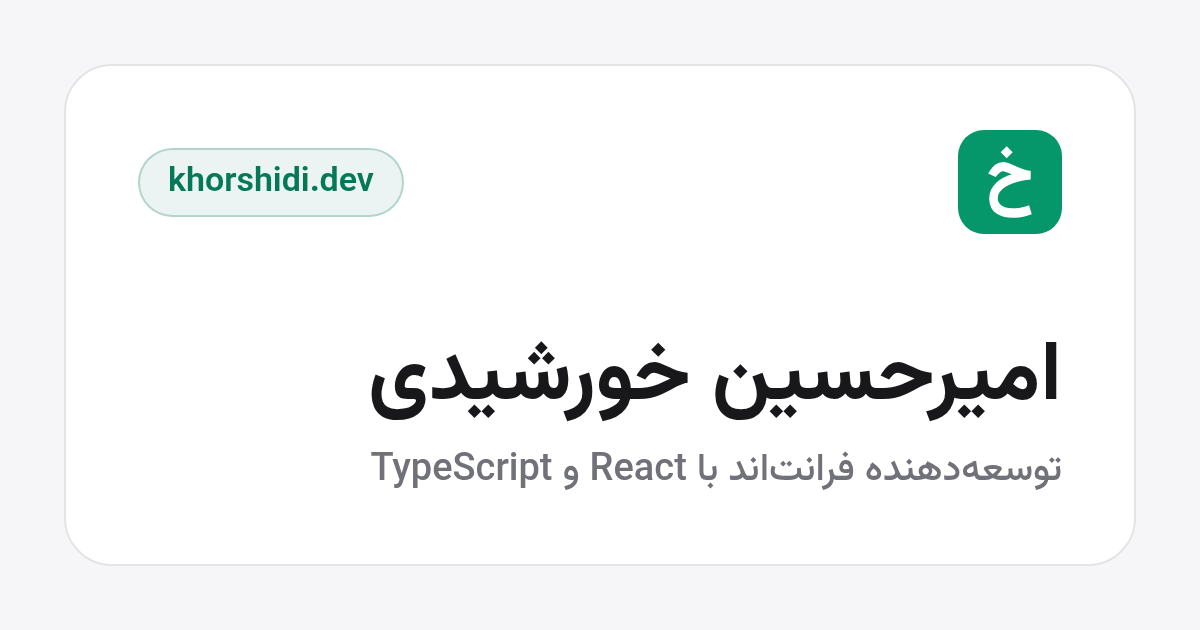
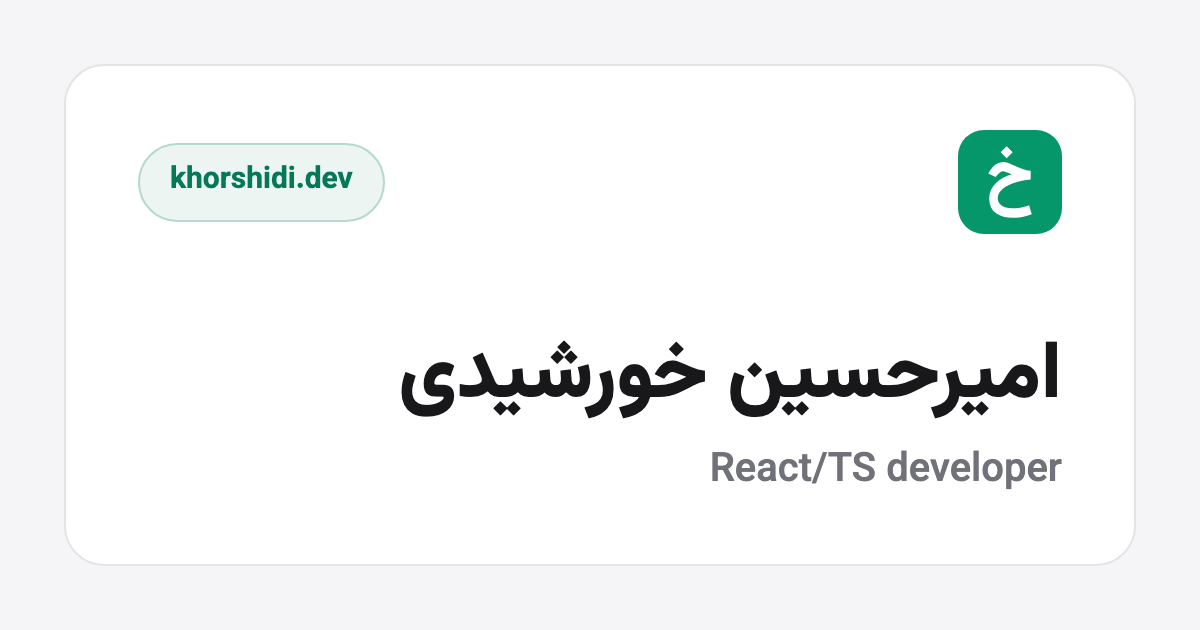
feat(profile): link tools in bio and add version footer

diff --git a/src/lib/site.ts b/src/lib/site.ts
@@ -49,6 +49,26 @@ const projects: readonly Project[] = [
   },
 ];
 
+/** A run of bio text, or a word in it that links out, such as a tool to its own site. */
+export type BioPart = string | { text: string; href: string };
+
+const tools = {
+  typescript: { text: 'TypeScript', href: 'https://www.typescriptlang.org' },
+  react: { text: 'React', href: 'https://react.dev' },
+  next: { text: 'Next.js', href: 'https://nextjs.org' },
+  vite: { text: 'Vite', href: 'https://vite.dev' },
+  shadcn: { text: 'shadcn/ui', href: 'https://ui.shadcn.com' },
+  tailwind: { text: 'Tailwind', href: 'https://tailwindcss.com' },
+} as const;
+
+const networks = {
+  ethereum: { text: 'اتریوم', href: 'https://ethereum.org' },
+  polygon: { text: 'Polygon', href: 'https://polygon.technology' },
+  arbitrum: { text: 'Arbitrum', href: 'https://arbitrum.io' },
+  optimism: { text: 'Optimism', href: 'https://optimism.io' },
+  bsc: { text: 'BSC', href: 'https://www.bnbchain.org' },
+} as const;
+
 /** Site-wide content in one place, so pages never hard-code the owner's details. */
 export const site = {
   /** The live origin, for canonical links, the sitemap and structured data. */
@@ -58,14 +78,41 @@ export const site = {
   latinName: 'Amirhossein Khorshidi',
   title: 'امیرحسین خورشیدی | درباره من و پروژههام',
   description:
-    'امیرحسین خورشیدی، توسعهدهنده فرانتاند با React و TypeScript. اینجا از خودم و پروژههام مینویسم.',
+    'امیرحسین خورشیدی، توسعهدهنده TypeScript. با React کار میکنم و پروژههام رو با Next.js و Vite میسازم. اینجا از خودم و کارهام مینویسم.',
   githubUsername: 'amirhosseinkhorshidi',
   role: 'توسعهدهنده فرانتاند',
+  /** One entry per paragraph; a paragraph with links is written as its parts. */
   bio: [
     'سلام، من امیرحسینم. بیشتر وقتم رو میذارم روی ساختن رابطهایی که ساده و روون باشن و کار کردن باهاشون حس خوبی بده. جزئیات کوچیک برام خیلی مهمن، چون به نظرم همین چیزای ریزن که آخرش یه تجربه خوب میسازن.',
-    'با React و TypeScript کار میکنم و پروژههام رو بیشتر با Next.js و Vite میسازم. به دیزاین سیستم و دسترسپذیری علاقه دارم و از کار با ابزارایی مثل shadcn/ui و Tailwind خیلی لذت میبرم، چون باهاشون میشه بیدردسر رابطهایی ساخت که هم خوشظاهرن، هم راحت شخصیسازی میشن.',
+    [
+      'توسعهدهنده ',
+      tools.typescript,
+      ' هستم و با ',
+      tools.react,
+      ' کار میکنم. پروژههام رو هم با ',
+      tools.next,
+      ' و ',
+      tools.vite,
+      ' میسازم. به دیزاین سیستم و دسترسپذیری علاقه دارم و از کار با ابزارایی مثل ',
+      tools.shadcn,
+      ' و ',
+      tools.tailwind,
+      ' خیلی لذت میبرم، چون باهاشون میشه بیدردسر رابطهایی ساخت که هم ظاهر تمیز و مرتبی دارن، هم راحت شخصیسازی میشن.',
+    ],
     'کنار اینا به بلاکچین هم علاقه دارم. به نظرم یه قدم بزرگه برای رها شدن از سیستمهای مالی سنتی و پول فیات، جایی که آدمها بدون واسطه خودشون مالک داراییشون باشن و هیچ سیستمی دست یه نفر یا یه سازمان خاص نباشه.',
-    'بیشتر از همه اکوسیستم اتریوم و راهحلهای مقیاسپذیریش برام جذابه، مثل Polygon، Arbitrum و Optimism که هر کدوم یه جور سعی میکنن مشکل سرعت و کارمزد اتریوم رو حل کنن. BSC هم برام جالبه و کلا دوست دارم شبکههای مختلف رو بیشتر بشناسم و بفهمم پشتشون چی میگذره.',
+    [
+      'بیشتر از همه اکوسیستم ',
+      networks.ethereum,
+      ' و راهحلهای مقیاسپذیریش برام جذابه، مثل ',
+      networks.polygon,
+      '، ',
+      networks.arbitrum,
+      ' و ',
+      networks.optimism,
+      ' که هر کدوم یه جور سعی میکنن مشکل سرعت و کارمزد اتریوم رو حل کنن. ',
+      networks.bsc,
+      ' هم برام جالبه و کلا دوست دارم شبکههای مختلف رو بیشتر بشناسم و بفهمم پشتشون چی میگذره.',
+    ],
     'اینجا هم قراره پروژههام و چیزایی که توی این مسیر یاد میگیرم رو جمع کنم و با بقیه به اشتراک بذارم.',
   ],
   socials: {

diff --git a/src/pages/profile/profile-page.tsx b/src/pages/profile/profile-page.tsx
@@ -1,8 +1,9 @@
-import type { ComponentType } from 'react';
+import { type ComponentType, Fragment } from 'react';
 import { GitHubIcon, InstagramIcon, TelegramIcon } from '@/components/icons/brand-icons';
 import { PageMeta } from '@/components/seo/page-meta';
-import { site } from '@/lib/site';
+import { type BioPart, site } from '@/lib/site';
 import { cn } from '@/lib/utils/cn';
+import packageJson from '../../../package.json';
 import { GitHubActivity } from './github-activity';
 
 interface Social {
@@ -34,6 +35,13 @@ const socials: Social[] = [
   },
 ];
 
+// Read off the manifest, so the version shown is the one a release bumped and built
+const version = packageJson.version.replace(/\d/g, (digit) => '۰۱۲۳۴۵۶۷۸۹'[Number(digit)]);
+
+function plainText(parts: readonly BioPart[]) {
+  return parts.map((part) => (typeof part === 'string' ? part : part.text)).join('');
+}
+
 export function ProfilePage() {
   return (
     <div className="flex flex-col gap-6">
@@ -45,9 +53,30 @@ export function ProfilePage() {
         </header>
 
         <div className="flex flex-col gap-4 text-[0.9375rem] text-foreground/80 leading-8">
-          {site.bio.map((paragraph) => (
-            <p key={paragraph}>{paragraph}</p>
-          ))}
+          {site.bio.map((paragraph) =>
+            typeof paragraph === 'string' ? (
+              <p key={paragraph}>{paragraph}</p>
+            ) : (
+              <p key={plainText(paragraph)}>
+                {paragraph.map((part, index) =>
+                  typeof part === 'string' ? (
+                    // biome-ignore lint/suspicious/noArrayIndexKey: the parts are fixed text, never reordered, and joiners like « و » repeat
+                    <Fragment key={index}>{part}</Fragment>
+                  ) : (
+                    <a
+                      key={part.href}
+                      href={part.href}
+                      target="_blank"
+                      rel="noreferrer"
+                      className="rounded-sm font-medium text-primary transition-opacity hover:opacity-75 focus-visible:outline-2 focus-visible:outline-offset-2 focus-visible:outline-ring"
+                    >
+                      {part.text}
+                    </a>
+                  ),
+                )}
+              </p>
+            ),
+          )}
         </div>
 
         <ul className="flex flex-wrap gap-2">
@@ -71,6 +100,14 @@ export function ProfilePage() {
       </section>
 
       <GitHubActivity />
+
+      <footer className="flex items-center justify-center gap-2 text-muted-foreground text-xs">
+        <p>تمامی حقوق محفوظ است</p>
+        <span className="h-3 w-px bg-border" aria-hidden="true" />
+        <p>
+          نسخه <span className="ss02">{version}</span>
+        </p>
+      </footer>
     </div>
   );
 }

diff --git a/index.html b/index.html
@@ -13,7 +13,7 @@
     <meta property="og:image" content="https://khorshidi.dev/og.png" />
     <meta property="og:image:width" content="1200" />
     <meta property="og:image:height" content="630" />
-    <meta property="og:image:alt" content="امیرحسین خورشیدی، توسعهدهنده فرانتاند" />
+    <meta property="og:image:alt" content="امیرحسین خورشیدی، React/TS developer" />
     <meta name="twitter:card" content="summary_large_image" />
 
     <!-- Resolved values of --background in styles/globals.css; a meta tag cannot

diff --git a/src/pages/projects/projects-page.tsx b/src/pages/projects/projects-page.tsx
@@ -101,7 +101,7 @@ export function ProjectsPage() {
                       rel="noreferrer"
                       className={cn(
                         linkClass,
-                        'border-github/20 bg-github/5 text-github hover:bg-github/10',
+                        'border-github/15 bg-github/5 text-github/70 hover:bg-github/10 hover:text-github',
                       )}
                     >
                       <GitHubIcon className="size-4" />
